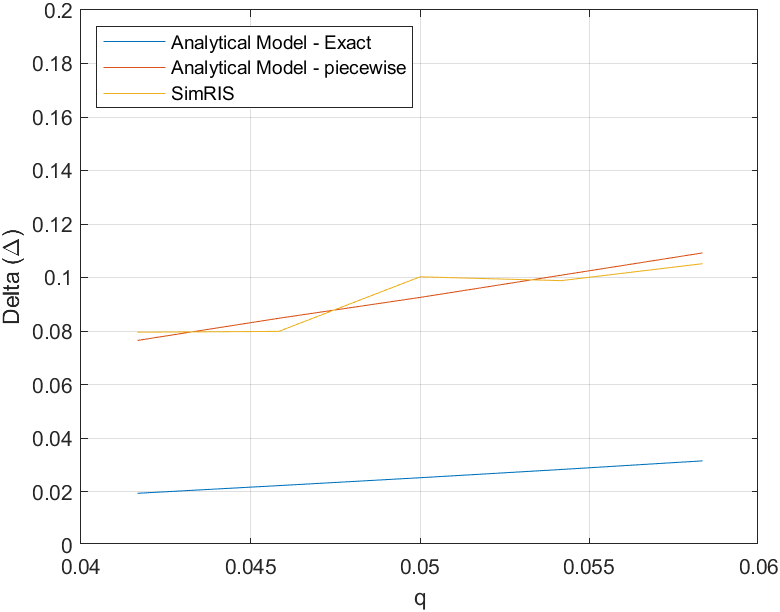
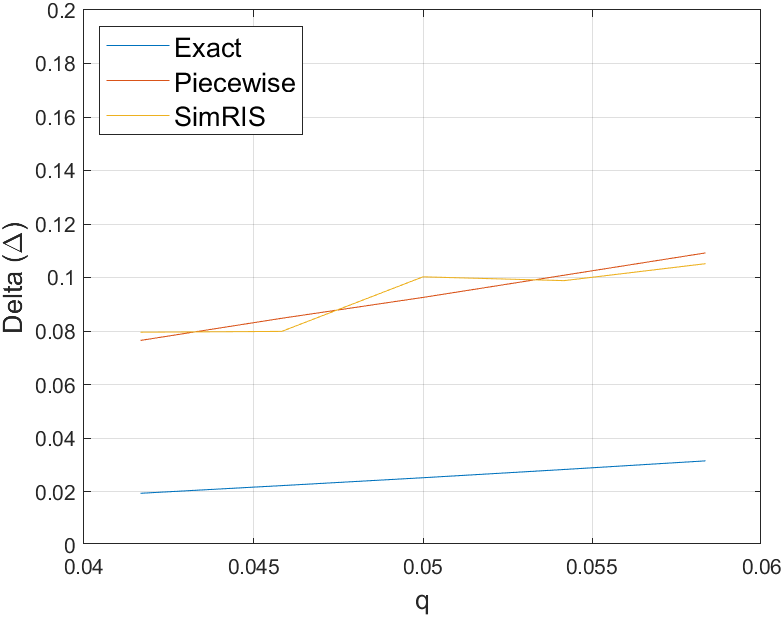
Updated legends

diff --git a/integral_part2.m b/integral_part2.m
@@ -8,13 +8,13 @@ ys(q) = (2*(acot(q) + q*log(1 + 1/q^2)))/(q + 4*q^3)
 yp(q) = ((2*sqrt(1 - 4*q^2)*(1 + 24*q^2 + 16*q^4))/(4*(q + 4*q^3)^2)-(2*(2 + q^2)*(-1 + sqrt(1 - 4*q^2)))/(4*q^2*(1 + q^2)))
 fplot(ys*330,[0.04,0.44])
 hold on
-fplot(yp*100,[0.04,0.44])
+fplot(yp*110,[0.04,0.44])
 plot(p/25,M)
 hold off
-legend({'Approximate Model - Exact', 'Approximate Model - Piecewise','SimRIS'},'Location','north')
-ylim([0 inf])
+legend({'Exact', 'Piecewise','SimRIS'},'Location','north','FontSize',13)
+ylim([0 30000])
 grid on
-xlabel('q') 
-ylabel('P_{RIS}^{Av}')
+xlabel('q','FontSize',13) 
+ylabel('P_{RIS}^{Av}','FontSize',13)
 print -depsc pow_vs_q_all
-matlab2tikz('Fig4.tex');
+%matlab2tikz('Fig4.tex');

diff --git a/exact_approx_delta.m b/exact_approx_delta.m
@@ -106,11 +106,11 @@ hold off
 % ylim([50 100])
 ylim([0 0.2])
 %legend({'Analytical Model - Exact','Analytical Model - piecewise','SimRIS'},'Location','southwest')
-legend({'Analytical Model - Exact','Analytical Model - Piecewise','SimRIS'},'Location','northwest','FontSize',13)
+legend({'Exact','Piecewise','SimRIS'},'Location','northwest','FontSize',13)
 xlabel('q','FontSize',13) 
 ylabel('Delta (\Delta)','FontSize',13) 
 %ylabel('Percentage (x*)') 
 grid on
-matlab2tikz('Fig6.tex');
+%matlab2tikz('Fig6.tex');
 %print -depsc delta_percent_all
 print -depsc delta_all

diff --git a/exact_approx_delta_percent_plot.m b/exact_approx_delta_percent_plot.m
@@ -105,10 +105,10 @@ plot(f,perc_vals(1:5)*100)
 hold off
 ylim([50 100])
 %ylim([0 0.2])
-legend({'Analytical Model - Exact','Analytical Model - Piecewise','SimRIS'},'Location','southwest','FontSize',13)
+legend({'Exact','Piecewise','SimRIS'},'Location','southwest','FontSize',13)
 xlabel('q','FontSize',13) 
 %ylabel('Delta (\Delta)') 
 ylabel('Percentage (x*)','FontSize',13) 
 grid on
-matlab2tikz('Fig5.tex');
+%matlab2tikz('Fig5.tex');
 print -depsc delta_percent_all
